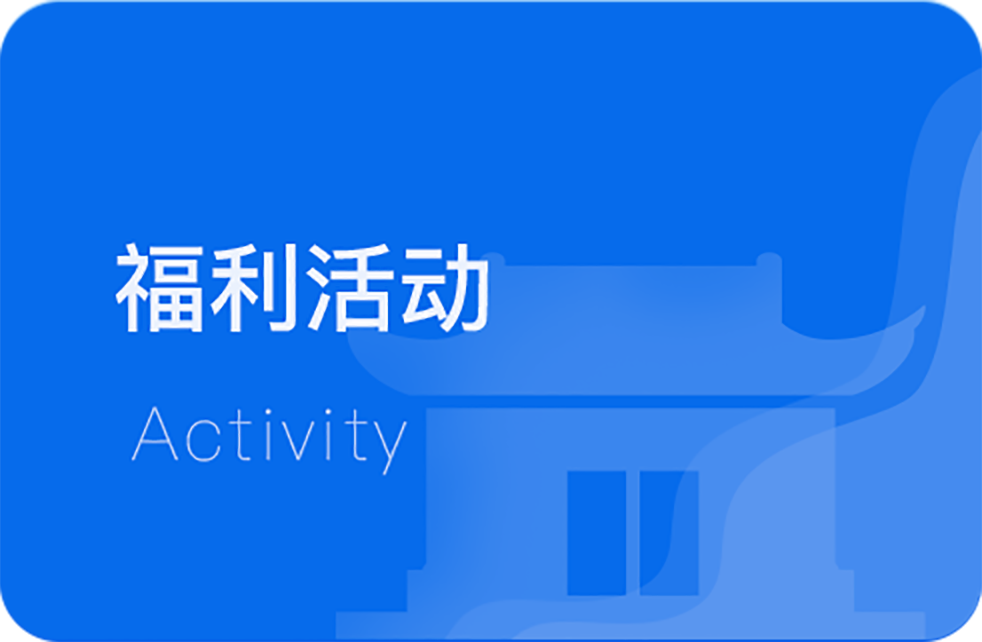
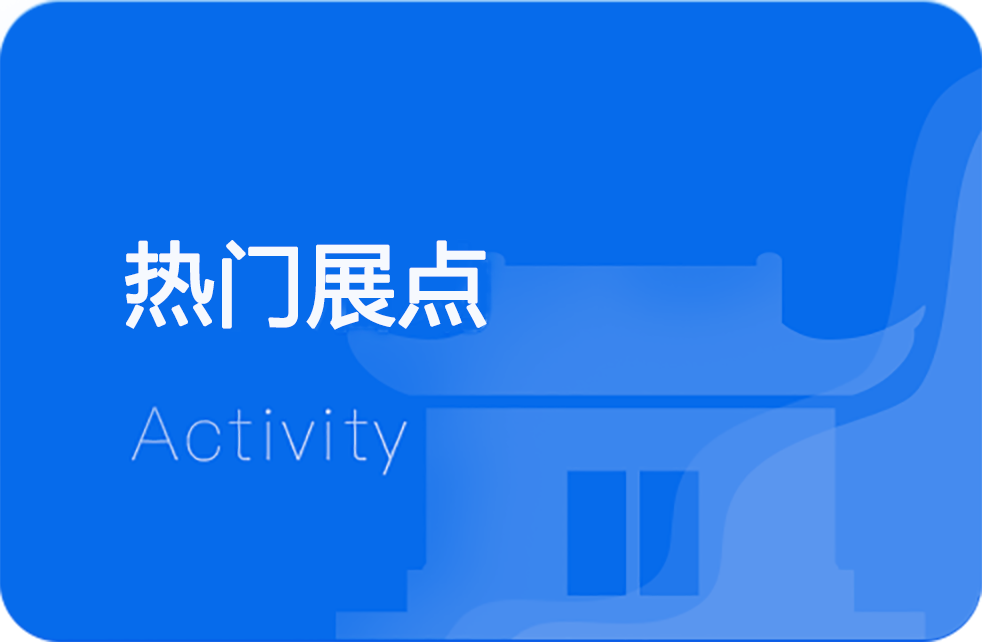
周日修改

Changed region(s): [[0.1222, 0.3738, 0.5193, 0.5296]]

diff --git a/11-10-yunnan/index.html b/11-10-yunnan/index.html
@@ -440,6 +440,38 @@
 					</div>
 				</div>
 			</div>
+			
+			<div class="index-line"></div>
+			<div class="index-tshw" v-if="listGoods.length>0">
+				<div class="index-h2">特色好物</div>
+				<div class="index-tshw-list">
+					<!-- <div class="index-tshw-item"
+						:class="goods.isLive?'goods-live-hover':''" 
+						@click="goGoodsDetail(goods)"
+						v-for="(goods,index) in listGoods" :key="index">
+						<van-image
+							fit="cover"
+							lazy-load
+							:src="goods.images[0].url"
+							><template v-slot:error>加载失败</template></van-image>
+						
+						<h3 class="van-ellipsis">{{goods.name}}</h3>
+						<p class="van-ellipsis">{{goods.appHits}}人正在浏览</p>
+					</div> -->
+					<div class="index-tshw-item"
+						@click="goPage('article_zsxq.html',{'Keyword':goods.name})"
+						v-for="(goods,index) in listGoods" :key="index"
+						>
+						<van-image
+							fit="cover"
+							lazy-load
+							:src="goods.logo"
+							><template v-slot:error>加载失败</template></van-image>
+						<h3 class="van-ellipsis">{{goods.name}}</h3>
+						<p class="van-ellipsis">{{goods.appHits}}人正在浏览</p>
+					</div>
+				</div>
+			</div>
 			<div class="index-line"></div>
 			<!-- 合作商 -->
 			<div class="index-tshw index-hzs">
@@ -453,27 +485,6 @@
 							:src="goods.imageUrl"
 							><template v-slot:error>加载失败</template></van-image>
 						<h3 class="van-ellipsis">{{goods.channelName}}</h3>
-					</div>
-				</div>
-			</div>
-			<div class="index-line"></div>
-			<div class="index-tshw" v-if="listGoods.length>0">
-				<div class="index-h2">特色好物</div>
-				<div class="index-tshw-list">
-					<div class="index-tshw-item"
-						:class="goods.isLive?'goods-live-hover':''" 
-						@click="goGoodsDetail(goods)"
-						v-for="(goods,index) in listGoods" :key="index">
-						<!-- <div class="index-live"><span></span>LIVE</div> -->
-						<!-- <img src="images/bg.png" alt=""> -->
-						<van-image
-							fit="cover"
-							lazy-load
-							:src="goods.images[0].url"
-							><template v-slot:error>加载失败</template></van-image>
-						
-						<h3 class="van-ellipsis">{{goods.name}}</h3>
-						<p class="van-ellipsis">{{goods.appHits}}人正在浏览</p>
 					</div>
 				</div>
 			</div>
@@ -609,6 +620,8 @@
 				KMS:[], // 开幕式
 				YGZPage:1, //云逛展翻页
 				formData:{ // 特色好物列表请求数组
+					// ExhibitorName:'云南陶韵文化传播有限公司',
+					Keyword:'云南陶韵文化传播有限公司',
 					SkipCount:0,
 					Position:[],
 					MaxResultCount:4,
@@ -684,6 +697,7 @@
 				// 获取重磅嘉宾列表
 				axios.post('api/v1/contents', {
 					"siteId": _obj.idSite,
+					"groupNames":["重磅嘉宾"],
 					"channelId": _obj.idZBJB,
 					"wheres":[ {
 						"column": "checked",
@@ -711,6 +725,11 @@
 				axios.post('api/v1/contents', {
 					"siteId": _obj.idSite,
 					"channelId": _obj.idYGZ,
+					"wheres":[{
+							"column": "sourceId",
+							"operator": ">",
+							"value": "-1"
+						}],
 					"page": _this.YGZPage,
 					"perPage": 4
 				})
@@ -863,7 +882,7 @@
 				// 获取特色好物
 				getGoods(){
 					var _this = this;
-					axios.get(_obj.shopUrl+'api/services/app/Exhibit/GetCachePageList?Status=1',{
+					axios.get(_obj.shopUrl+'api/services/app/Exhibitor/GetCachePageList',{
 						params:this.formData,
 						paramsSerializer: function(params) {
 							return qs.stringify(params, {arrayFormat: 'repeat'})
@@ -879,7 +898,7 @@
 					axios.post('api/v1/contents', {
 						"siteId": _obj.idSite,
 						"channelId": _obj.idYGZ,
-						"wheres":[ {
+						"wheres":[{
 							"column": "sourceId",
 							"operator": ">",
 							"value": "-1"

diff --git a/11-10-yunnan/single_lxwm.html b/11-10-yunnan/single_lxwm.html
@@ -108,12 +108,12 @@
 			font-size: .31rem;
 			line-height: .7rem;
 			text-align: left;
-			padding-left: 1.5rem;
+			padding-left: .4rem;
 			display: flex;
 			align-items: center;
 			opacity: .9;
 			background-repeat: no-repeat;
-			background-position: 1.05rem center;
+			background-position: 0rem center;
 		}
 		.lxwm-body-div li:nth-child(1){
 			background-image: url(images/lxwm-icon-01.png);
@@ -252,6 +252,9 @@
 		}
 		.mflj-item{
 			min-height: 1.95rem;
+			padding-left: .3rem;
+			padding-right: .3rem;
+			padding-bottom: .2rem;
 		}
 		.gywm-zhrc{
 			position: relative;
@@ -385,8 +388,7 @@
 						<van-pull-refresh v-model="refreshing" @refresh="onRefresh">
 							<van-list v-model="loading" :finished="finished" finished-text="没有更多了" @load="onLoad">
 								<div class="wzwb-mflj-div">
-									<div class="mflj-item" v-for="(item,index) in items.ljcontent" :key="index">
-										<!-- <img :src="item.imageUrl" alt=""> -->
+									<!-- <div class="mflj-item" v-for="(item,index) in items.ljcontent" :key="index">
 										<van-image
 										lazy-load
 										:src="item.imageUrl"
@@ -394,7 +396,14 @@
 										<div class="mflj-item-right">
 												<h3>{{item.title}}</h3>
 												<p class="van-ellipsis">{{item.subTitle}}</p>
-												<p class="van-ellipsis">{{item.summary}}</p>
+												<p class="van-ellipsis" >{{item.summary}}</p>
+										</div>
+									</div> -->
+									<div class="mflj-item" v-for="(item,index) in items.ljcontent" :key="index">
+										<div class="mflj-item-right">
+												<h3>{{item.title}}</h3>
+												<p>{{item.subTitle}}</p>
+												<p >{{item.summary}}</p>
 										</div>
 									</div>
 								</div>

diff --git a/11-10-yunnan/column_wzwb.html b/11-10-yunnan/column_wzwb.html
@@ -300,7 +300,7 @@
 				</div>
 			</div>
 			<div class="index-ygz wzwb-flhd">
-				<div class="index-h2">福利活动</div>
+				<div class="index-h2">{{FLHD.channelName}}</div>
 				<!-- <a href="column_flhd.html"><div class="index-ygz-more">马上参与<van-icon name="arrow" /></div></a> -->
 				<div @click="goPage('column_tphd.html')" class="index-ygz-more">马上参与<van-icon name="arrow" /></div>
 				<div class="wzwb-flhd-div" @click="goPage('column_tphd.html')">
@@ -309,7 +309,7 @@
 						<template v-slot:error>加载失败</template>
 					</van-image>
 					<h3>{{FLHD.channelName}}</h3>
-					<p>{{FLHD.description}}</p>
+					<!-- <p>{{FLHD.description}}</p> -->
 				</div>
 				</a>
 			</div>
@@ -444,7 +444,7 @@
 				imagesDBLB:[], // 顶部轮播
 				ZHYJ:[], // 展会影集
 				listZq:[], //展区
-				FLHD:'', // 福利活动-投票活动
+				FLHD:'', // 热门展点-投票活动
 				ZHYJID:'', // 展会影集id
 			},
 			created: function () {
@@ -464,7 +464,7 @@
 					_this.imagesDBLB = response.data.contents;
 					public_imgsrc(_this.imagesDBLB)
 				})
-				// 福利活动
+				// 热门展点
 				axios.get('api/v1/channels/'+_obj.idSite+'/'+_obj.idTPHD)
 				.then(function (response) {
 						_this.FLHD = response.data;

diff --git a/11-10-yunnan/article_zsxq.html b/11-10-yunnan/article_zsxq.html
@@ -52,7 +52,8 @@
 		,.zqxq-header .van-image{
 			display: block;
 			width: 6.9rem;
-			height: 3.2rem;
+			/* height: 3.2rem; */
+			height: 5.175rem;
 			border-radius: .2rem;
 			margin-bottom: .2rem;
 			overflow: hidden;
@@ -204,14 +205,14 @@
 		<div class="zqxq-header">
 			<!-- <img :src="shop.logo" alt=""> -->
 			<van-image
-				fit="cover"
+				fit="fill"
 				:src="shop.logo"
 			><template v-slot:error>加载失败</template></van-image>
 			<h2>{{shop.name}}</h2>
 			<!-- <p v-show="shop.webSiteUrl?shop.webSiteUrl.length>0:''">展商网站: {{shop.webSiteUrl}}</p> -->
 			<p v-show="shop.emailAddress?shop.emailAddress.length>0:''">展商邮箱: {{shop.emailAddress}}</p>
 			<p>联系方式: {{shop.contectPhone}}</p>
-			<p v-show="shopObj.PositionName=='undefined'?false:true">展区位置: {{shopObj.PositionName}}</p>
+			<p v-show="shopObj.PositionName?shopObj.PositionName=='undefined'?false:true:''">展区位置: {{shopObj.PositionName}}</p>
 			<div class="zsxq-btn-jdgg" v-show="shop.webSiteUrl?shop.webSiteUrl.length>0:''" @click="goPage(shop.webSiteUrl)">进店逛逛</div>
 		</div>
 		<div class="zqxq-body">

diff --git a/11-10-yunnan/js/public.js b/11-10-yunnan/js/public.js
@@ -249,6 +249,9 @@ function public_return_page(){
 			else {
 				docEl.style.fontSize = 100 + 'px';
 			}
+			// 设置新闻详情页最低高度
+			document.getElementsByClassName("xwxq-body")[0].style.minHeight=(aa-view_jsset_font)+'px'
+			console.log('9993221',view_jsset_font)
 		};
 	win.addEventListener(resizeEvt, recalc, false);
 	doc.addEventListener('DOMContentLoaded', recalc, false);
@@ -258,6 +261,8 @@ function public_return_page(){
 	var bb = window.screen.width;
 	document.getElementById("app").style.minHeight=aa+'px'
 	document.getElementById("app").style.minWidth=bb+'px'
+	
+	
 	// console.log('1234',aa,bb)
 })(document, window);
 

diff --git a/11-10-yunnan/article_zqxq.html b/11-10-yunnan/article_zqxq.html
@@ -119,7 +119,7 @@
 			<!-- <p>展示面积: {{data_content.zhanshimianji}}</p> -->
 			<p v-if="data_content.zhuti?data_content.zhuti.length>0:''">展馆主题: {{data_content.zhuti}}</p>
 			<p v-if="data_content.dizhi?data_content.dizhi.length>0:''">展馆地址: {{data_content.dizhi}}</p>
-			<p v-if="data_content.zhanguanjiesao?data_content.zhanguanjiesao.length>0:''">展馆介绍: {{data_content.zhanguanjiesao}}</p>
+			<p v-if="data_content.zhanqujieshao?data_content.zhanqujieshao.length>0:''">展区介绍: {{data_content.zhanqujieshao}}</p>
 			<!-- <p>目标客户: {{data_content.mubiaokehu}}</p> -->
 		</div>
 		<div class="zqxq-body">

diff --git a/11-10-yunnan/article_xwxq.html b/11-10-yunnan/article_xwxq.html
@@ -24,8 +24,10 @@
 		}
 		#app{
 			padding-top: 1rem;
+			padding-bottom: 0;
 			background-color: #1A285C;
 			overflow-x: hidden;
+			height: 100%;
 		}
 		.public-header-title{
 			background-color: transparent;
@@ -36,17 +38,13 @@
 		.xwxq-body{
 			position: relative;
 			padding: .3rem;
-			min-height: 100%;
-			background-color: rgba(255, 255, 255, .08);
+			background-color: rgba(255, 255, 255, 1);
 			border-radius: .67rem .67rem 0 0;
-		}
-		.xwxq-body>*{
-			color: white;
 		}
 		.xwxq-body>h2
 		,.xwxq-body>h6
 		,.xwxq-content{
-			color: white;
+			color: #222222;
 		}
 
 		.xwxq-body>h2{

diff --git a/11-10-yunnan/single_wbqy_qyxq.html b/11-10-yunnan/single_wbqy_qyxq.html
@@ -24,6 +24,7 @@
 		}
 		#app{
 			padding-top: 1rem;
+			padding-bottom: 0;
 			background-color: #1A285C;
 		}
 		.public-header-title{
@@ -35,15 +36,13 @@
 		.xwxq-body{
 			position: relative;
 			padding: .3rem;
-			background-color: rgba(255, 255, 255, .08);
+			background-color: rgba(255, 255, 255, 1);
 			border-radius: .67rem .67rem 0 0;
 		}
-		/* .xwxq-body *{
-			color: white;
-		} */
 		.xwxq-body>h2
-		,.xwxq-body>h6{
-			color: white;
+		,.xwxq-body>h6
+		,.xwxq-content{
+			color: #222222;
 		}
 
 		.xwxq-body>h2{

diff --git a/11-10-yunnan/article_xwxq_share.html b/11-10-yunnan/article_xwxq_share.html
@@ -24,6 +24,7 @@
 		}
 		#app{
 			padding-top: 1rem;
+			padding-bottom: 0;
 			background-color: #1A285C;
 		}
 		.public-header-title{
@@ -35,16 +36,13 @@
 		.xwxq-body{
 			position: relative;
 			padding: .3rem;
-			background-color: rgba(255, 255, 255, .08);
+			background-color: rgba(255, 255, 255, 1);
 			border-radius: .67rem .67rem 0 0;
-		}
-		.xwxq-body *{
-			color: white;
 		}
 		.xwxq-body>h2
 		,.xwxq-body>h6
 		,.xwxq-content{
-			color: white;
+			color: #222222;
 		}
 
 		.xwxq-body>h2{

diff --git a/11-10-yunnan/css/public.css b/11-10-yunnan/css/public.css
@@ -259,7 +259,7 @@ div.public-footer-nav:after {
 	/* background-color: #18316f; */
 	background-color: rgba(243,247,250, 0.1);
 	padding: 0.3rem 0 0.2rem 0;
-	min-height: 3.5rem;
+	/* min-height: 3.5rem; */
 	border-radius: 0.2rem;
 }
 .index-swipe-02-father img
